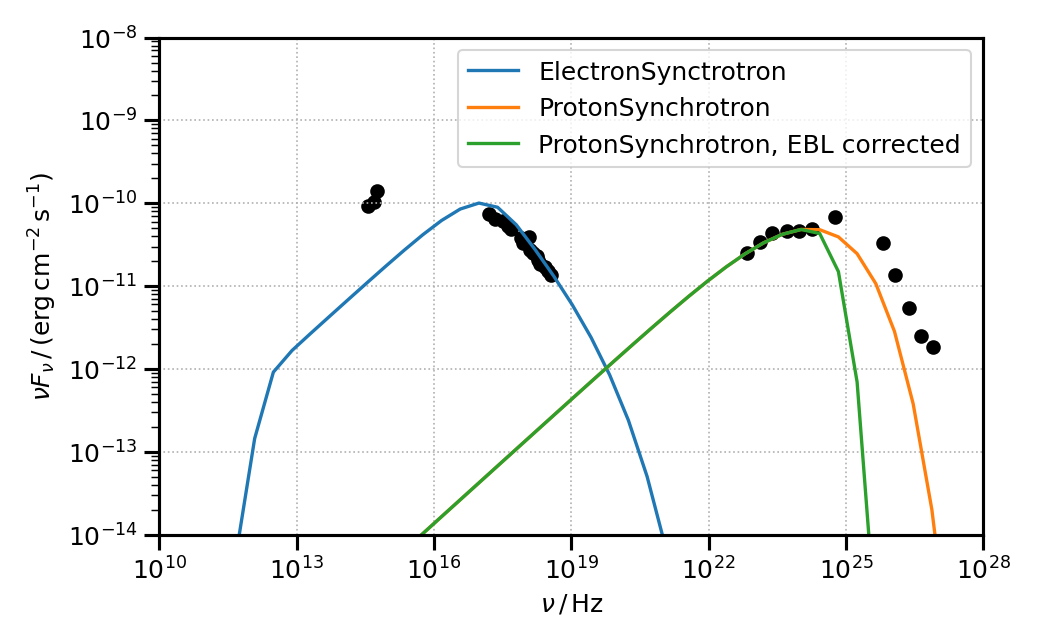
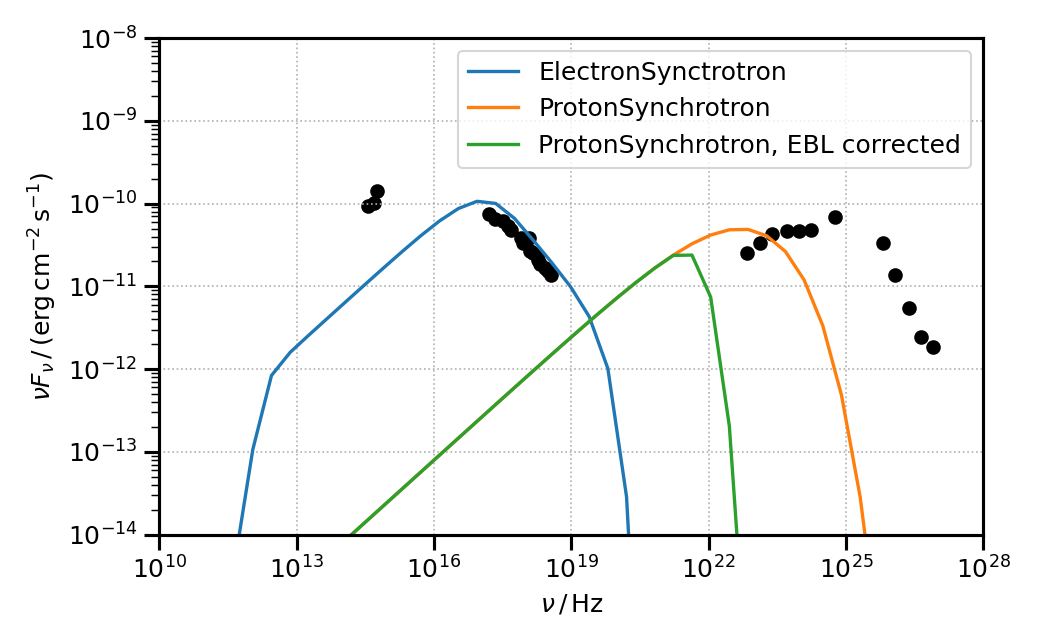
Fix typo from copy-paste

diff --git a/agnpy/tesi/Comparison_Cerruti2012.py b/agnpy/tesi/Comparison_Cerruti2012.py
@@ -1,6 +1,6 @@
 import numpy as np
 import astropy.units as u
-from agnpy.spectra import ExpCutoffPowerLaw, ExpCutoffBrokenPowerLaw
+from agnpy.spectra import ExpCutoffPowerLaw, BrokenPowerLaw
 from agnpy.emission_regions import Blob
 #from agnpy.synchrotron import Synchrotron
 from synchrotron_new import Synchrotron
@@ -34,7 +34,7 @@ nuFnu_data = 10**lognuFnu
 # Define source parameters
 B = 80 * u.G
 redshift = 0.117
-distPKS = Distance(z=redshift)
+distPKS = Distance(z=redshift) # Already inside blob definition
 doppler_s = 30
 Gamma_bulk = 16
 R = 5.2e14 * u.cm #radius of the blob
@@ -45,8 +45,6 @@ vol = (4. / 3) * np.pi * R ** 3
 # exponential cut-off at gamma_p_max" (from M. Cerruti 2012)
 #
 
-<<<<<<< HEAD
-=======
 
 # So I made a bit 'cleaner' the code.
 # Also, I deleted my proton_synch program and I kept only yours, renaming it
@@ -67,18 +65,13 @@ vol = (4. / 3) * np.pi * R ** 3
 
 
 
-<<<<<<< HEAD
 norm_p2 = 12e3 / u.Unit('cm3')
-=======
-
->>>>>>> a84338685a7ad6899b520c8836b897db63c629bd
->>>>>>> 57579d11f17af5b73730c6f69eeeaa6dcada97b8
 u_p = 3.7e2 * u.Unit('erg cm-3')
 #k = (norm_p2 / mpc2.to('eV')) * vol
 print(norm_p2 / mpc2.to('eV'))
 
 # define the proton distribution
-n_p = ExpCutoffPowerLaw(k=12e3 / u.Unit('cm3'), #k,
+n_p = ExpCutoffPowerLaw(k=12e3 / u.Unit('cm3'), #12e3 / u.Unit('cm3'),
         p = 2.0 ,
         gamma_c= 1e9,
         gamma_min= 1,
@@ -87,13 +80,12 @@ n_p = ExpCutoffPowerLaw(k=12e3 / u.Unit('cm3'), #k,
 )
 
 # Define electron distribution
-n_e = ExpCutoffBrokenPowerLaw(k=6e-5 * u.Unit("cm-3"), # k = 6e2, kp = 12e3
+n_e = BrokenPowerLaw(k=6e-5 * u.Unit("cm-3"), # k = 6e2, kp = 12e3
         p1=2.0,
         p2=4.32,
         gamma_b=4e3,
         gamma_min=1,
-        gamma_cutoff=6e4,
-        gamma_max=6e5
+        gamma_max=6e4,
 )
 
 blob = Blob(R_b=R,
@@ -113,7 +105,7 @@ psynch = ProtonSynchrotron(blob)
 
 # compute the SED over an array of frequencies
 nu = np.logspace(10, 30) * u.Hz
-nu_obs = nu * blob.delta_D
+nu_obs = nu * blob.delta_D / (1+redshift)
 
 sed = synch.sed_flux(nu)
 psed = psynch.sed_flux(nu)
@@ -134,7 +126,7 @@ plot_sed(nu_obs, psed, label = 'ProtonSynchrotron')
 plot_sed(nu_obs, psed_abs, label = 'ProtonSynchrotron, EBL corrected')
 plt.ylim(1e-14, 1e-8)
 plt.xlim(1e10, 1e28) # For frequencies
-plt.savefig('Comparison.png')
+#plt.savefig('Comparison.png')
 plt.show()
 
 
@@ -144,4 +136,4 @@ blob.plot_n_p(label = 'Proton distribution')
 #n_e.plot()
 plt.ylim(1e-44, 1e5)
 plt.legend()
-plt.savefig('Particle_distr.png')
+#plt.savefig('Particle_distr.png')

diff --git a/agnpy/spectra/spectra.py b/agnpy/spectra/spectra.py
@@ -505,7 +505,7 @@ class ExpCutoffPowerLaw(ParticleDistribution):
         function to be used for integration, default is :class:`~numpy.trapz`
     """
 
-    def _init_(
+    def __init__(
         self,
         k=1e-13 * u.Unit("cm-3"),
         p=2.1,
@@ -515,7 +515,7 @@ class ExpCutoffPowerLaw(ParticleDistribution):
         mass=m_e,
         integrator=np.trapz,
     ):
-        super()._init_(mass, integrator)
+        super().__init__(mass, integrator)
         self.k = k
         self.p = p
         self.gamma_c = gamma_c
@@ -534,7 +534,7 @@ class ExpCutoffPowerLaw(ParticleDistribution):
             0,
         )
 
-    def _call_(self, gamma):
+    def __call__(self, gamma):
         return self.evaluate(
             gamma, self.k, self.p, self.gamma_c, self.gamma_min, self.gamma_max
         )
